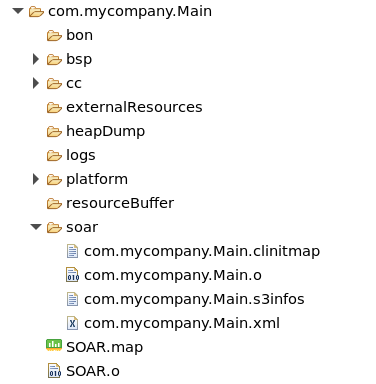
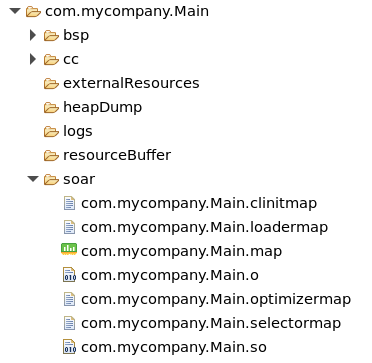
Update build file description for architecture 8.

Changed region(s): [[0.0296, 0.0, 0.9462, 1.0], [0.0591, 0.0909, 0.0887, 0.1212]]

diff --git a/ApplicationDeveloperGuide/buildOutputFiles.rst b/ApplicationDeveloperGuide/buildOutputFiles.rst
@@ -45,7 +45,8 @@ After :ref:`building <mmm_module_build>` the Standalone Application, the publish
 The SOAR Map File
 ~~~~~~~~~~~~~~~~~
 
-The ``SOAR.map`` file lists every embedded symbol of the application (section, Java class or method, etc.) and its size in ROM or RAM.
+The ``.map`` file lists every embedded symbol of the application (section, Java class or method, etc.) and its size in ROM or RAM.
+This file is called ``<main class>.map`` for architectures equal or greater than  ``8.0``, and ``SOAR.map`` for architectues strictly lower than ``8.0``.
 This file can be opened using the :ref:`memorymapanalyzer`.
 
 The embedded symbols are grouped into multiple categories. For example, the ``Object`` class and its methods are grouped in the ``LibFoundationEDC`` category.
@@ -59,17 +60,171 @@ The same applies to the static fields (``Statics`` category), the types (``Types
 The SOAR Information File
 ~~~~~~~~~~~~~~~~~~~~~~~~~
 
-The ``soar/<main class>.xml`` file can be opened using any XML editor.
+      Since achitecture ``8.x``, informations that were contained in ``soar/<main class>.xml`` are dispatched in three separated files:
 
-This file contains the list of the following embedded elements:
+      -  ``soar/<main class>.loadermap`` generated by the SOAR Loader. It contains information about all the class loaded by the SOAR from the classpath.
+      -  ``soar/<main class>.selectormap`` generated by the SOAR Selector. It contains information about all the selected classes and methods to be embedded within the application.
+      -  ``soar/<main class>.optimizermap`` generated by the SOAR Optimizer. It contains embedded types and method information such as their size.
 
-- method (in ``selected_methods`` tag)
-- :ref:`resource <chapter.microej.applicationResources>` (in ``selected_resources`` tag)
-- :ref:`system property <system_properties>` (in ``java_properties`` tag)
-- string (in ``selected_internStrings`` tag)
-- :ref:`type <section.classpath.elements.types>` (in ``selected_types`` tag)
-- :ref:`immutable <section.classpath.elements.immutables>` (in ``selected_immutables`` tag)
+      Each of these files can be opened with an XML editor.
 
+.. tabs::
+
+   .. tab:: The SOAR Information File (Architecture ``8.x``)
+
+      .. list-table::
+         :widths: 25 30 45
+
+         * - **Information**
+           - **XML tag>subtag[attribute=value]**
+           - **File**
+         * - :ref:`classpath <chapter.microej.classpath>`
+           - ``classpath``
+           - ``soar/<main class>.loadermap``
+         * - :ref:`resources <chapter.microej.applicationResources>`
+           - ``resources``
+           - ``soar/<main class>.loadermap``
+         * - :ref:`external resources <chapter.microej.applicationResources>`
+           - ``external_resources``
+           - ``soar/<main class>.loadermap``
+         * - :ref:`system properties <system_properties>` 
+           - ``properties``
+           - ``soar/<main class>.loadermap``
+         * - :ref:`constants <section.classpath.elements.constants>`
+           - ``constants``
+           - ``soar/<main class>.loadermap``
+         * - :ref:`clinit order <soar_clinit>`
+           - ``clinit``
+           - ``soar/<main class>.selectormap``
+         * - selected methods
+           - ``methods``
+           - ``soar/<main class>.selectormap``
+         * - selected statics fields
+           - ``statics``
+           - ``soar/<main class>.selectormap``
+         * - selected interned strings
+           - ``strings``
+           - ``soar/<main class>.selectormap``
+         * - :ref:`types <section.classpath.elements.types>`
+           - ``types``
+           - ``soar/<main class>.selectormap``
+         * - :ref:`embed type name <section.classpath.elements.types>`
+           - ``types>type[hasRuntimeName = true]``
+           - ``soar/<main class>.loadermap``, ``soar/<main class>.selectormap``
+         * - :ref:`immutables <section.classpath.elements.immutables>`
+           - N/A
+           - N/A
+         * - number of types
+           - ``types>[nb]``
+           - ``soar/<main class>.selectormap``
+         * - number of concrete classes
+           - ``types[nbConcreteClasses]``
+           - ``soar/<main class>.selectormap``
+         * - number of abstract classes
+           - ``types[nbAbstractClasses]``
+           - ``soar/<main class>.selectormap``
+         * - number of interfaces
+           - ``types[nbInterfaces]``
+           - ``soar/<main class>.selectormap``
+         * - number of arrays
+           - ``types[nbArrays]``
+           - ``soar/<main class>.selectormap``
+         * - type is a :ref:`kernel API <kernel.api>`
+           - ``types>type[api=true]``
+           - ``soar/<main class>.selectormap``
+         * - type instance size
+           - ``types>type[instanceSize]``
+           - ``soar/<main class>.loadermap``
+         * - number of reference field
+           -  ``types>type[nbReferenceFields]``
+           - ``soar/<main class>.loadermap``
+         * - method code size
+           - ``methods>method[codesize]``
+           - ``soar/<main class>.loadermap``
+         * - method is inlined
+           - ``methods>method[inlined=true]``
+           - ``soar/<main class>.loadermap``
+         * - method is a :ref:`kernel API <kernel.api>`
+           - ``methods>method[api=true]``
+           - ``soar/<main class>.selectormap``
+
+   .. tab:: The SOAR Information File (Architecture ``7.x``)
+
+      .. list-table::
+        :widths: 25 30 45
+
+        * - **Information**
+          - **XML tag>subtag[attribute=value]**
+          - **File**
+        * - :ref:`classpath <chapter.microej.classpath>`
+          - ``classpath``
+          - ``soar/<main class>.xml``
+        * - :ref:`resources <chapter.microej.applicationResources>`
+          - ``selected_resources``
+          - ``soar/<main class>.xml``
+        * - :ref:`external resources <chapter.microej.applicationResources>`
+          - ``external_resources``
+          - ``soar/<main class>.xml``
+        * - :ref:`system properties <system_properties>` 
+          - ``java_properties``
+          - ``soar/<main class>.xml``
+        * - :ref:`constants <section.classpath.elements.constants>`
+          - ``constants``
+          - ``soar/<main class>.xml``
+        * - :ref:`clinit order <soar_clinit>`
+          - ``clinit_order``
+          - ``soar/<main class>.xml``
+        * - selected methods
+          - ``selected_methods``
+          - ``soar/<main class>.xml``
+        * - selected statics fields
+          - ``selected_static_fields``
+          - ``soar/<main class>.xml``
+        * - selected interned strings
+          - ``selected_internStrings``
+          - ``soar/<main class>.xml``
+        * - :ref:`types <section.classpath.elements.types>`
+          - ``selected_types``
+          - ``soar/<main class>.xml``
+        * - :ref:`embed type name <section.classpath.elements.types>`
+          - ``required_types``
+          - ``soar/<main class>.xml``
+        * - :ref:`immutables <section.classpath.elements.immutables>`
+          - ``selected_immutables``
+          - ``soar/<main class>.xml``
+        * - number of types
+          - ``selected_types[nb]``
+          - ``soar/<main class>.xml``
+        * - number of concrete classes
+          - ``selected_types[nbConcreteClasses]``
+          - ``soar/<main class>.xml``
+        * - number of abstract classes
+          - ``selected_types[nbAbstractClasses]``
+          - ``soar/<main class>.xml``
+        * - number of interfaces
+          - ``selected_types[nbInterfaces]``
+          - ``soar/<main class>.xml``
+        * - number of arrays
+          - ``selected_types[nbArrays]``
+          - ``soar/<main class>.xml``
+        * - type is a :ref:`Kenel API <kernel.api>`
+          - ``selected_types>type[api=true]``
+          - ``soar/<main class>.xml``
+        * - type instance size
+          - ``selected_types>type[instanceSize]``
+          - ``soar/<main class>.xml``
+        * - number of reference field
+          -  ``selected_types>type[nbReferenceFields]``
+          - ``soar/<main class>.xml``
+        * - method code size
+          - ``selected_methods>method[codesize]``
+          - ``soar/<main class>.xml``
+        * - method is inlined
+          - ``selected_methods>method[inlined=true]``
+          - ``soar/<main class>.xml``
+        * - method is a :ref:`Kenel API <kernel.api>`
+          - ``selected_methods>method[api=true]``
+          - ``soar/<main class>.xml``
 ..
    | Copyright 2008-2023, MicroEJ Corp. Content in this space is free 
    for read and redistribute. Except if otherwise stated, modification 
